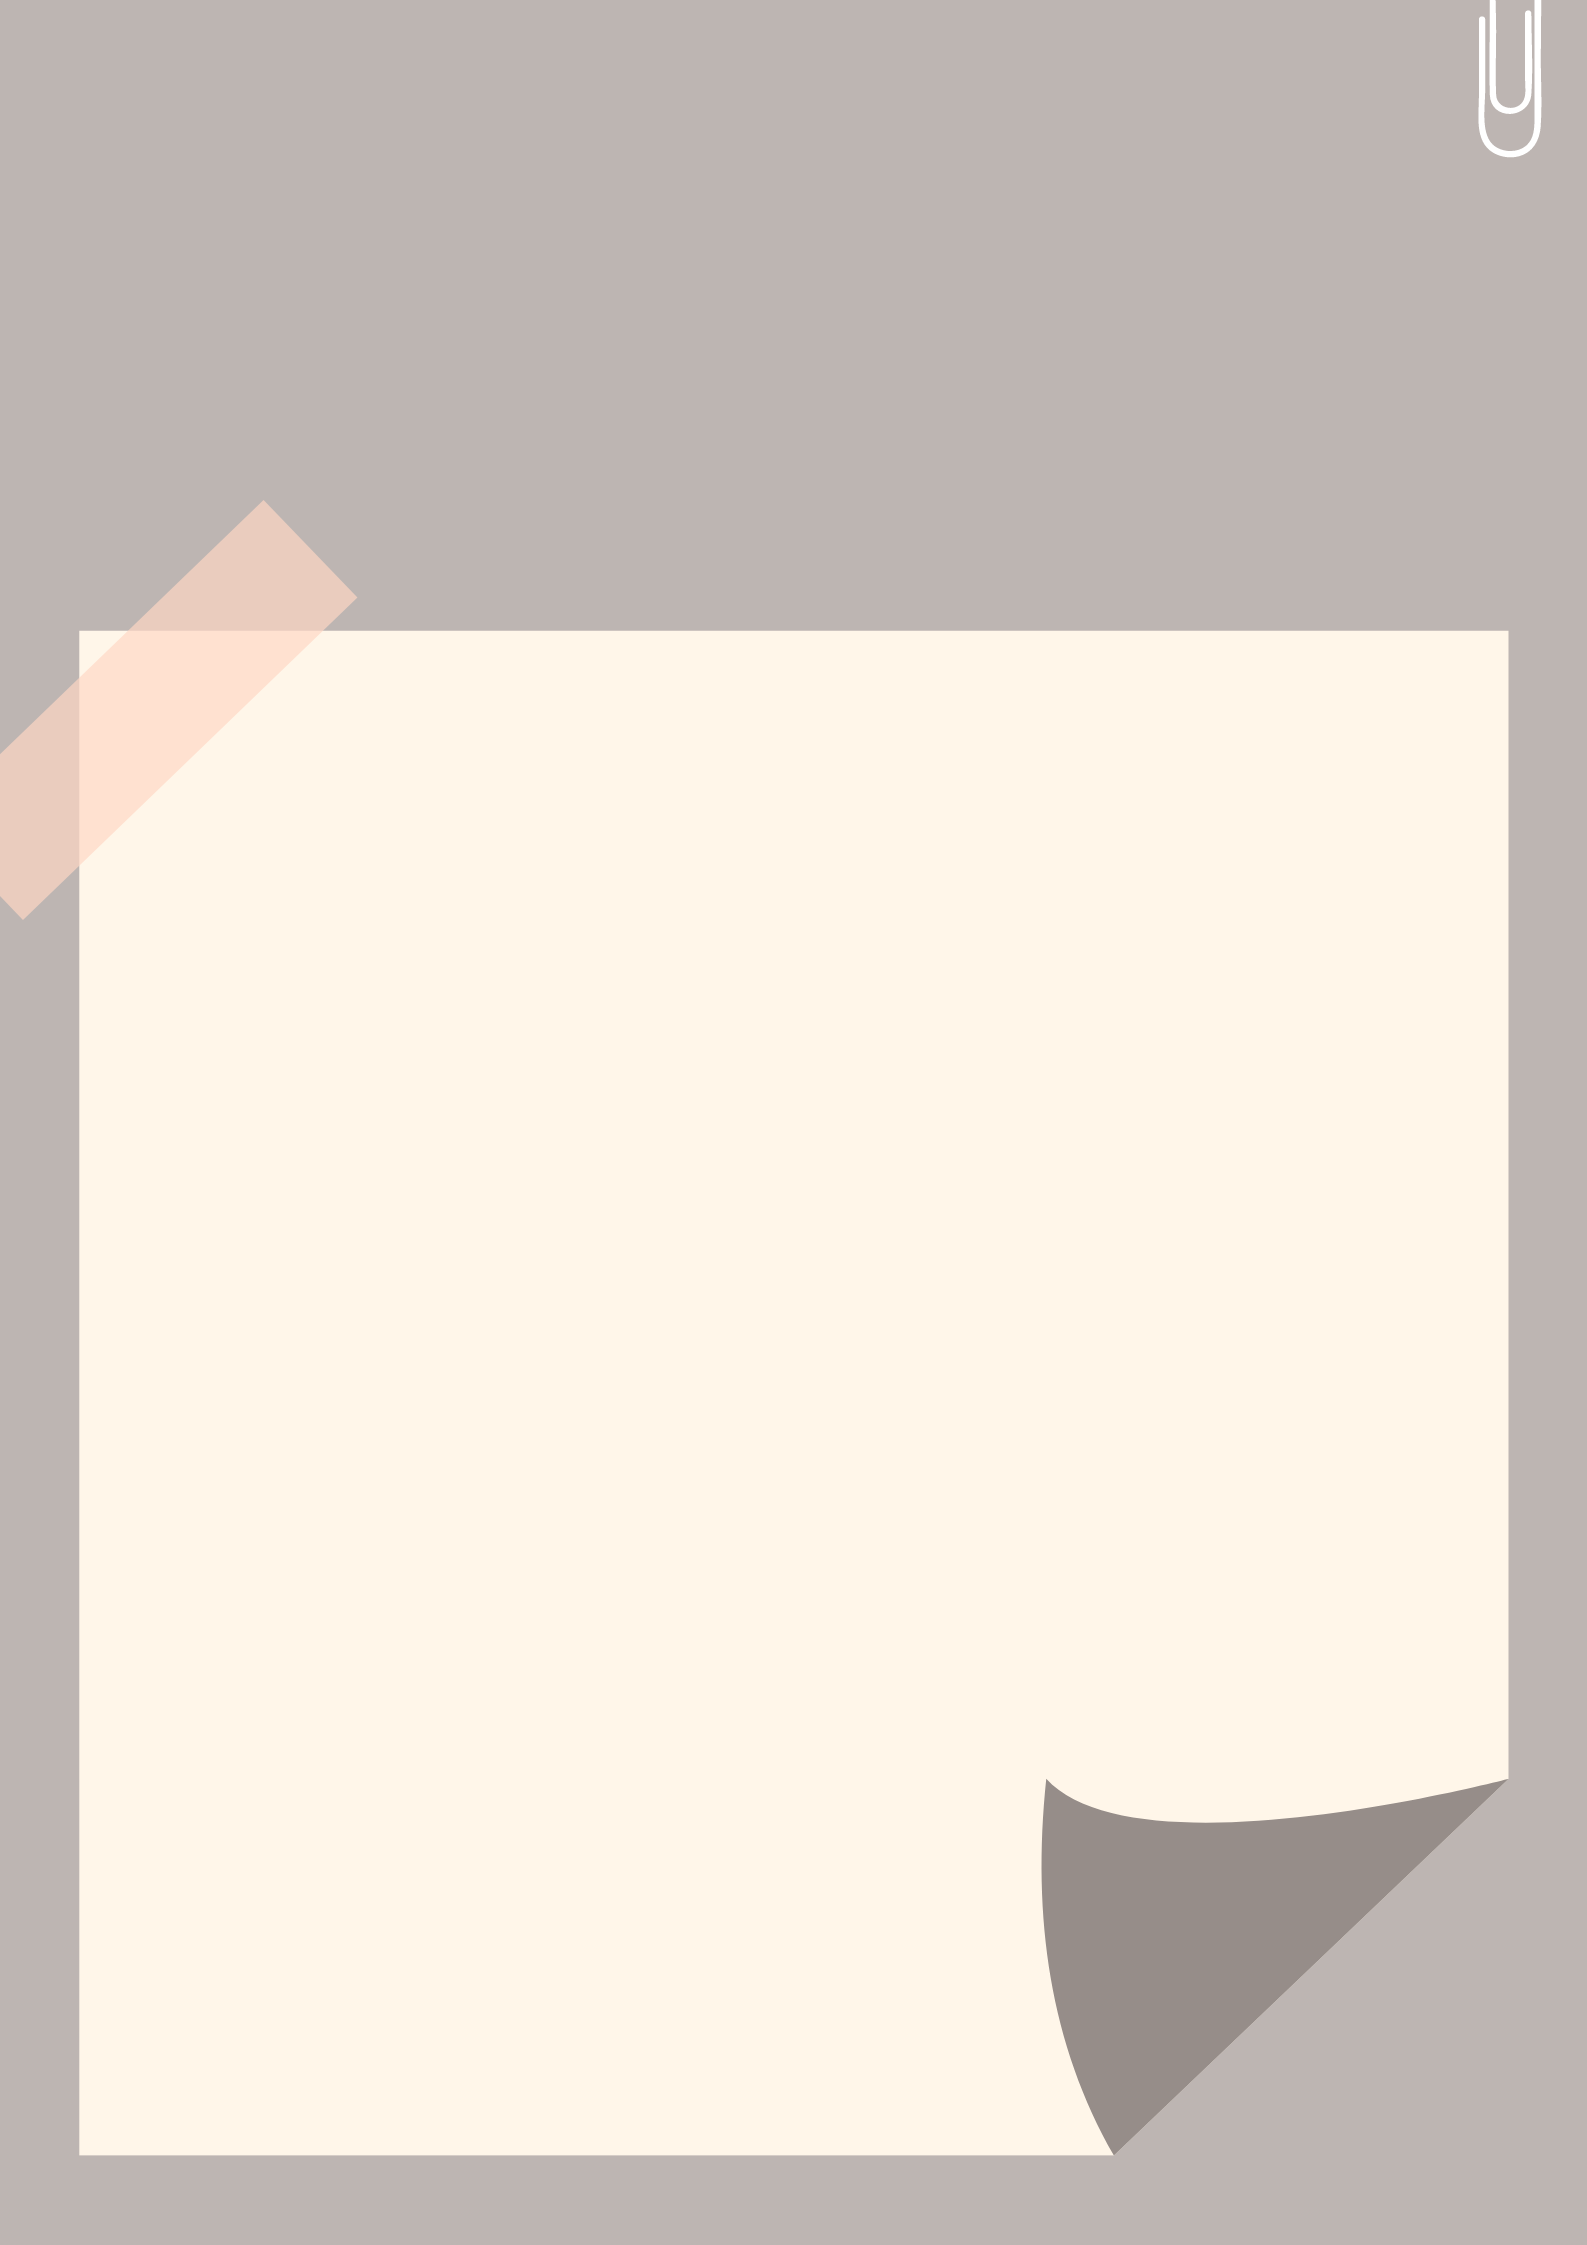
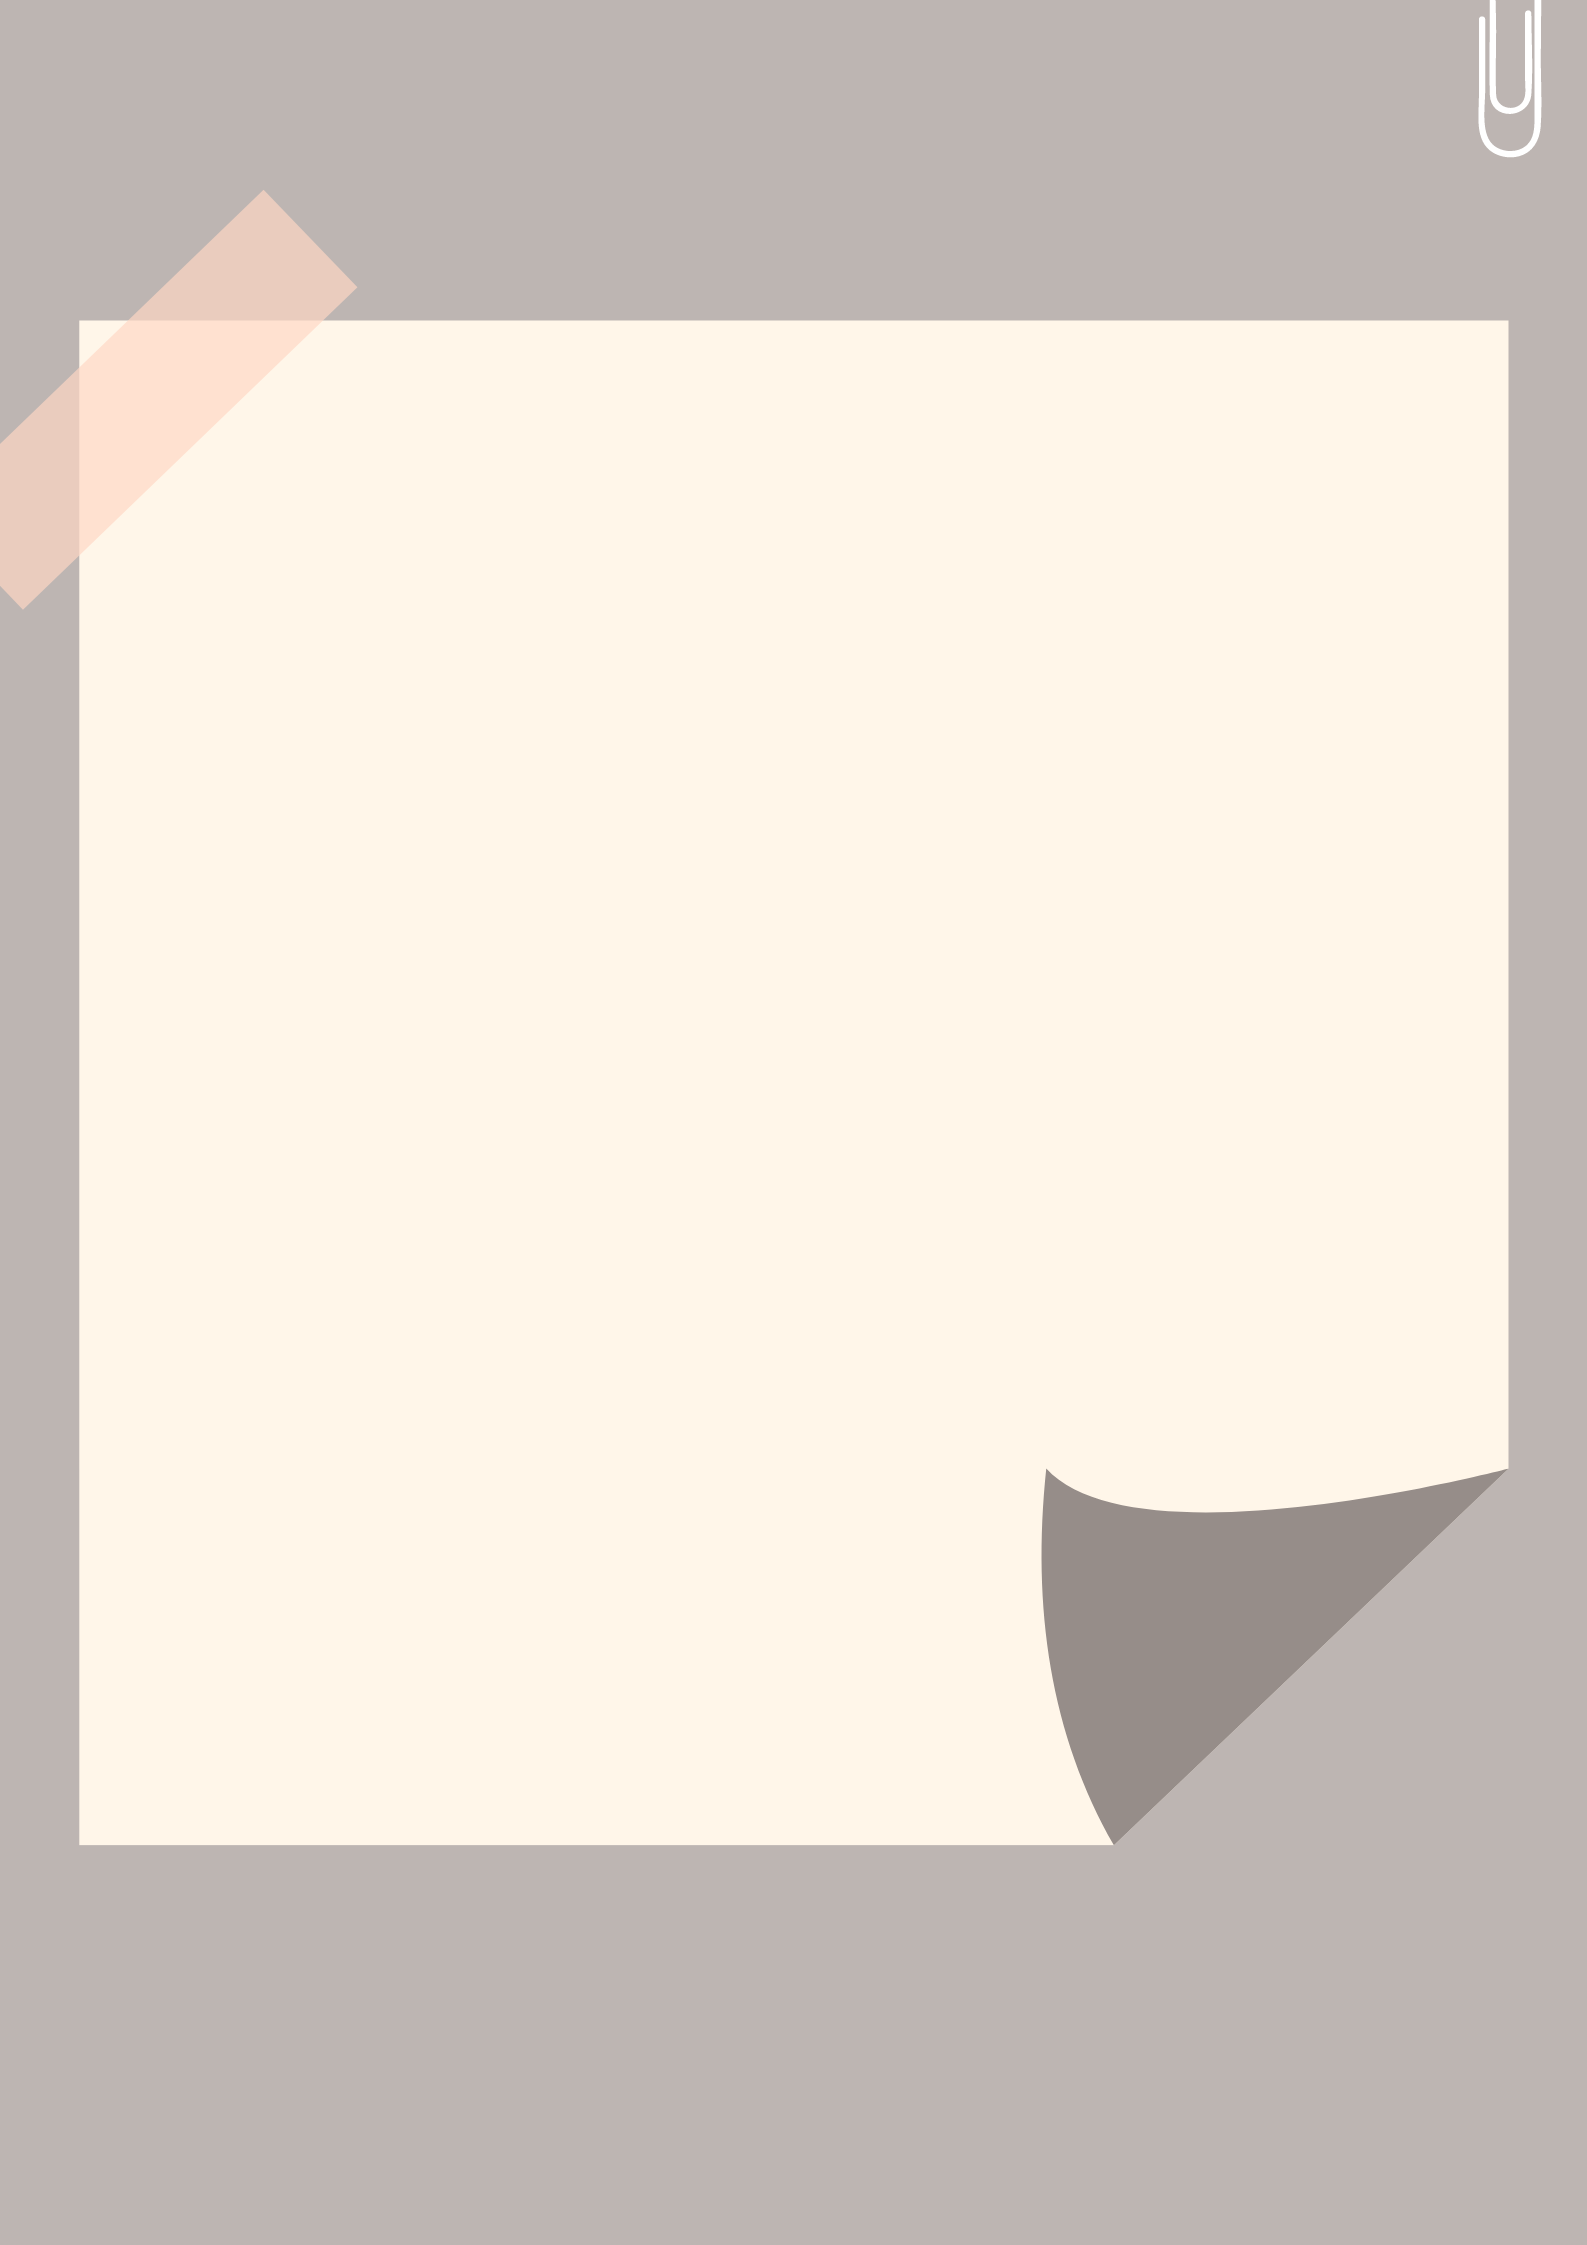
asynchrone

Changed region(s): [[0.0309, 0.6548, 0.9572, 0.9666], [0.0, 0.0624, 0.9572, 0.4053]]

diff --git a/script.js b/script.js
@@ -13,3 +13,66 @@ editButtons.forEach((button) => {
         enableEdit(taskId);
     });
 });
+
+
+// ---------------------------------------------------
+
+
+
+document.querySelectorAll('.validate-button').forEach(btn => {
+    btn.addEventListener('click', e => {
+        console.log(e.target.closest('.task-container').dataset.id);
+        const divParent = e.target.closest('.task-container').dataset.id
+        const divParent2 = e.target.closest('.task-container').dataset.ranking
+        console.log(divParent2);
+        // envoie un json a l'api
+        changeStatus(divParent,divParent2)
+            // après e retour de l'api on fait
+            .then(apiResponse => {
+                if (!apiResponse.result) {
+                    console.error('Problème avec la requête.');
+                    return;
+                }
+                console.log(apiResponse);
+                validateTask(apiResponse.idTask);
+            });
+    });
+});
+
+function changeStatus(idTask, ranking, status) {
+    const data = {
+        action: 'validate',
+        idTask: idTask,
+        status: status,
+        token: getCsrfToken(),
+        ranking : ranking
+    }
+    return callAPI('PUT', data);
+}
+  
+function validateTask(idTask) {
+    document.querySelector('[data-id="' + idTask + '"]').remove();
+}
+
+
+
+
+async function callAPI(method, data) {
+    try {
+        const response = await fetch("api.php", {
+            method: method,
+            headers: {'Content-Type': 'application/json'},
+            body: JSON.stringify(data)
+        });
+        return response.json();
+    }
+    catch (error) {
+        console.error("Unable to load datas from the server : " + error);
+    }
+}
+
+
+
+function getCsrfToken() {
+    return document.querySelector('#token-csrf').value;
+}

diff --git a/style.css b/style.css
@@ -33,7 +33,7 @@ body {
     color: var(--vulcan);
     background-color: var(--whitesmoke);
     font-size: 0.75rem;
-    background-image: url(img/Notebook\ Blank\ Page\ Participants\ List\ Poster\ \(1\).png) ;
+    background-image: url(img/Notebook\ Blank\ Page\ Participants\ List\ Poster.png) ;
     background-repeat: no-repeat;
     background-size: cover;
     /* background-attachment: fixed; */

diff --git a/index.php b/index.php
@@ -22,7 +22,7 @@ $_SESSION['token'] = md5(uniqid(mt_rand(), true));
     </header>
     <main class="container">
         <form action="actions.php" method="POST" class="form-submit">
-            <input type="hidden" name="token" value="<?= $_SESSION['token'] ?? '' ?>">
+            <input type="hidden" name="token" value="<?= $_SESSION['token'] ?? '' ?>" id="token-csrf">
             <input type="text" name="task" placeholder="task" class="form-txt" required>
             <span class="required">*</span>
             <div class="form-date">
@@ -35,7 +35,7 @@ $_SESSION['token'] = md5(uniqid(mt_rand(), true));
         </form>
         <?php
 
-        $query = $dbCo->prepare("SELECT theme ,recall, Id_task, text, ranking FROM task WHERE status = '1' ORDER BY ranking DESC");
+        $query = $dbCo->prepare("SELECT status ,theme ,recall, Id_task, text, ranking FROM task WHERE status = '1' ORDER BY ranking DESC");
         $query->execute();
         $result = $query->fetchAll();
 
@@ -58,29 +58,28 @@ $_SESSION['token'] = md5(uniqid(mt_rand(), true));
             if (array_key_exists('msg', $_GET)) {
                 echo '<p class="task-info">' . $_GET['msg'] . '</p>';
             }
-            echo '<ul class="main-nav-list">';
+            echo '<ul class="main-nav-list" id="list">';
             foreach ($result as $task) {
-                echo '<div class="task-container">
-                        <li class="main-nav-item">
-                            <div class="task-content">
-                                <p id="taskText_' . $task['Id_task'] . '">' . $task['text'] . '</p>
-                                <form action="actions.php" method="POST" class="update-form hidden">
-                                <input type="hidden" name="token" value="' . $_SESSION['token'] . '">
-                                <input type="hidden" name="update" value="' . $task['Id_task'] . '">
-                                    <input type="text" name="new_task" class="task-input" value="' . $task['text'] . '" required>
-                                    <input type="date" id="recall_' . $task['Id_task'] . '" name="new_date" class="" value="' . $task['recall'] . '">
-                                    <button type="submit" class="update-button button" value ="' . '">Save</button>
-                                </form>
-                                <button type="button" class="edit-button button" value="' . '"data-task-id="' . $task['Id_task'] . '">Edit</button>
-                            </div>
-                            <div>
-                            <p> '.getDateText($task) .'</p>
-                                <a href="actions.php?validate=' . $task['Id_task'] . '&rank=' . $task['ranking'] . '&token=' . $_SESSION['token'] . '" class="validate-link"><button type="submit" 
-                                    class="validate-button button" name="validate" value="' . $task['Id_task'] . '">✔</button></a>
-                                <a href="actions.php?delete=' . $task['Id_task'] . '&rank=' . $task['ranking'] . '&token=' . $_SESSION['token'] . '" class="delete-link"><button type="submit" 
+                echo '<li class="task-container" data-id="'  . $task['Id_task'].'" data-ranking="'. $task['ranking']. '">
+                <div  class="main-nav-item">
+                <div class="task-content">
+                <p id="taskText_' . $task['Id_task'] . '">' . $task['text'] . '</p>
+                <form action="actions.php" method="POST" class="update-form hidden">
+                <input type="hidden" name="token" value="' . $_SESSION['token'] . '">
+                <input type="hidden" name="update" value="' . $task['Id_task'] . '">
+                <input type="text" name="new_task" class="task-input" value="' . $task['text'] . '" required>
+                <input type="date" id="recall_' . $task['Id_task'] . '" name="new_date" class="" value="' . $task['recall'] . '">
+                <button type="submit" class="update-button button" value ="' . '">Save</button>
+                </form>
+                <button type="button" class="edit-button button" value="' . '"data-task-id="' . $task['Id_task'] . '">Edit</button>
+                </div>
+                <div>
+                <p> ' . getDateText($task) . '</p>
+                <button type="submit" class="validate-button button" name="validate" value="' . $task['Id_task'] .  '&token=' . $_SESSION['token'] .  '" >✔</button></a>
+                            <a href="actions.php?delete=' . $task['Id_task'] . '&rank=' . $task['ranking'] . '&token=' . $_SESSION['token'] . '" class="delete-link"><button type="submit" 
                                     class="delete-button button" name="delete" value="' . $task['Id_task'] . '">❌</button></a>
                             </div>
-                        </li>
+                        </div >
                         <div class="arrow-div">';
                 if ($task['ranking'] == 1) {
                     echo '<a href="actions.php?id=' . $task['Id_task'] . '&rank=' . $task['ranking'] . '&token=' . $_SESSION['token'] . '&prior=up"><img class="arrow" src="img/up.png" alt="up"></a>';
@@ -91,7 +90,7 @@ $_SESSION['token'] = md5(uniqid(mt_rand(), true));
                     echo '<a href="actions.php?id=' . $task['Id_task'] . '&rank=' . $task['ranking'] . '&token=' . $_SESSION['token'] . '&prior=down"><img class="arrow" src="img/down.png" alt="down"></a>';
                 }
                 echo '</div>
-                    </div>';
+                    </li>';
             }
             echo '</ul>';
             getRecallToday($result)

diff --git a/actions.php b/actions.php
@@ -82,25 +82,25 @@ if (isset($_GET['delete'])) {
 
 //-----------------------------------------------------------
 
-// VALIDATE TASK
-if (isset($_GET['validate'])) {
-    $taskId = $_GET['validate'];
-    $query = $dbCo->prepare("UPDATE task SET status = '2' WHERE Id_task = :taskId");
-    $isOk = $query->execute([
-        ':taskId' => intval(strip_tags($taskId))
-    ]);
-    $ranking = $_GET['rank'];
-    $queryReplace = $dbCo->prepare("UPDATE task SET ranking = ranking - 1 WHERE ranking > :currentRanking");
-    $isOk = $queryReplace->execute([
-        ':currentRanking' => strip_tags(intval($ranking))
-    ]);
-    // message if task is validated
-    if ($query->rowCount()) {
-        // echo '<p class="transition" id="message"> La tâche a été validée. </p>';
-    };
-    header('Location: index.php?msg=' . ($isOk ? 'La tâche a été validée' : 'Un problème est survenu lors de la validation'));
-    exit;
-}
+// // VALIDATE TASK
+// if (isset($_GET['validate'])) {
+//     // $taskId = $_GET['validate'];
+//     // $query = $dbCo->prepare("UPDATE task SET status = '2' WHERE Id_task = :taskId");
+//     // $isOk = $query->execute([
+//     //     ':taskId' => intval(strip_tags($taskId))
+//     // ]);
+//     $ranking = $_GET['rank'];
+//     $queryReplace = $dbCo->prepare("UPDATE task SET ranking = ranking - 1 WHERE ranking > :currentRanking");
+//     $isOk = $queryReplace->execute([
+//         ':currentRanking' => strip_tags(intval($ranking))
+//     ]);
+//     // message if task is validated
+//     if ($query->rowCount()) {
+//         // echo '<p class="transition" id="message"> La tâche a été validée. </p>';
+//     };
+//     header('Location: index.php?msg=' . ($isOk ? 'La tâche a été validée' : 'Un problème est survenu lors de la validation'));
+//     exit;
+// }
 
 //-----------------------------------------------------------
 

diff --git a/api.php b/api.php
@@ -1,15 +1,48 @@
 <?php
+require 'includes/_database.php';
+session_start();
 
-// if($_REQUEST['action'] === 'submit'){
-//     $queryPriority = $dbCo->prepare('SELECT MAX(ranking) + 1 AS newPriority FROM task');
-//     $isOk = $queryPriority->execute();
-//     $result = $queryPriority->fetch();
-// }
 
+$data = json_decode(file_get_contents('php://input'), true);
+if (
+    !array_key_exists('token', $_SESSION) || !array_key_exists('token', $data)
+    || $_SESSION['token'] !== $data['token']
+) {
+    echo json_encode([
+        'result' => 'false',
+        'error' => 'Accès refusé, jeton invalide.'
+    ]);
+    exit;
+}
 header('content-type:application/json');
-$datas = [
+
+
+
+// $idTask = (int)strip_tags($data['idTask']);
+
+
+if ($data['action'] === 'validate' && $_SERVER['REQUEST_METHOD'] === 'PUT') {
+    $id=intval(strip_tags($data['idTask']));
+    $ranking=intval(strip_tags($data['ranking']));
+    $query = $dbCo->prepare("UPDATE task SET status = '2'  WHERE Id_task = :taskId");
+    $isOk = $query->execute([
+        ':taskId' => $id
+    ]);
+    $queryReplace = $dbCo->prepare("UPDATE task SET ranking = ranking - 1 WHERE ranking > :currentRanking");
+    $isOk = $queryReplace->execute([
+        ':currentRanking' => $ranking
+    ]);
+}
+
+
+$datas =[
     'result' => true,
-    'message' => 'Everything is okay',
-    'newId' => 52
+    'message' => 'Everything is ok',
+    'idTask' => $id,
+    'token' => $data['token']
 ];
 echo json_encode($datas);
+
+
+
+?>
